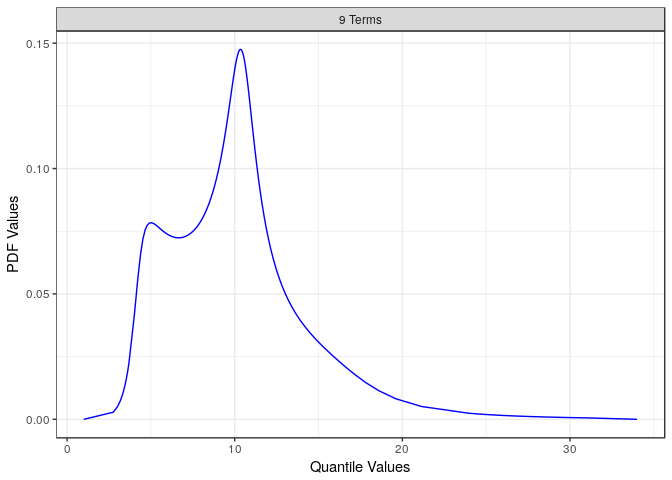
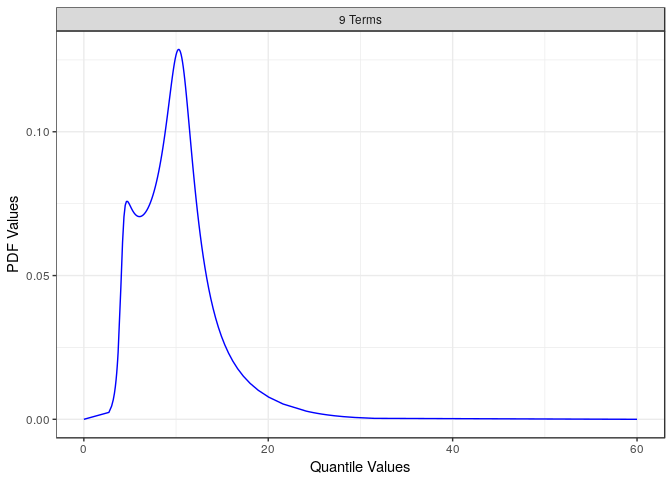
Adding sample and quantile functions. Also updating the readme.

diff --git a/README.md b/README.md
@@ -24,7 +24,7 @@ library(devtools)
 install_github('isaacfab/RMetalog')
 ```
 
-Once the package is loaded you start with a data set of continuous observations. For this repository we will load the library and use an example of fish size measurements from the Pacific Northwest. This data set is illustrative to demonstrate the flexibility of the metalog distribution. The data frame is installed with the package.
+Once the package is loaded you start with a data set of continuous observations. For this repository, we will load the library and use an example of fish size measurements from the Pacific Northwest. This data set is illustrative to demonstrate the flexibility of the metalog distribution as it is bi-modal. The data is installed with the package.
 
 ``` r
 library(RMetalog)
@@ -39,7 +39,7 @@ summary(fishSize)
 #>  Max.   :33.00
 ```
 
-The base function for the package to create distributions is
+The base function for the package to create distributions is:
 
 ``` r
 r_metalog()
@@ -48,8 +48,8 @@ r_metalog()
 This function takes several inputs:
 
 -   x - vector of numeric data
--   term\_limit - integer between 3 and 30, specifying number of metalog distributions, with respective terms, terms to build (default: 13)
--   bounds - numeric vector specifying lower or upper bounds, none requred if distribution is unbounded
+-   term\_limit - integer between 3 and 30, specifying the number of metalog distributions, with respective terms, terms to build (default: 13)
+-   bounds - numeric vector specifying lower or upper bounds, none required if the distribution is unbounded
 -   boundedness - character string specifying unbounded, semi-bounded upper, semi-bounded lower or bounded; accepts values u, su, sl and b (default: 'u')
 -   term\_lower\_bound - (Optional) the smallest term to generate, used to minimize computation must be less than term\_limit (default is 2)
 -   step\_len - (Optional) size of steps to summarize the distribution (between 0 and 1)
@@ -61,7 +61,7 @@ Here is an example of a lower bounded distribution build.
 my_metalog <- r_metalog(fishSize$FishSize,
                        term_limit = 9,
                        term_lower_bound = 9,
-                       bounds=c(1,34),
+                       bounds=c(0,60),
                        boundedness = 'b',
                        step_len = .01)
 ```
@@ -78,7 +78,7 @@ summary(my_metalog)
 #>  Term Limit:  9 
 #>  Term Lower Bound:  9 
 #>  Boundedness:  b 
-#>  Bounds (only used based on boundedness):  1 34 
+#>  Bounds (only used based on boundedness):  0 60 
 #>  Step Length for Distribution Summary:  0.01 
 #>  
 #> 
@@ -98,3 +98,24 @@ plot(my_metalog)
     #> Press [enter] to see CDF plot
 
 ![](README-unnamed-chunk-7-2.png)
+
+Once the distributions are built, you can create `n` samples by selecting a term.
+
+``` r
+s<-rmetalog_sample(my_metalog,n=1000,term=9)
+hist(s)
+```
+
+![](README-unnamed-chunk-8-1.png)
+
+You can also retrieve quantile values with a probability in a similar way.
+
+``` r
+rmetalog_quantile(my_metalog,y=c(0.25,0.5,0.75),term=9)
+#>             a9
+#> [1,]  7.240623
+#> [2,]  9.840139
+#> [3,] 12.063061
+```
+
+As this package is under development, any feedback is appreciated! Please submit a pull request or issue if you find anything that needs to be addressed.
